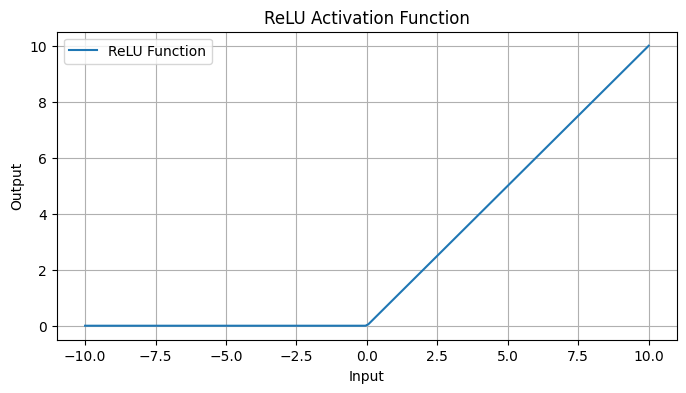
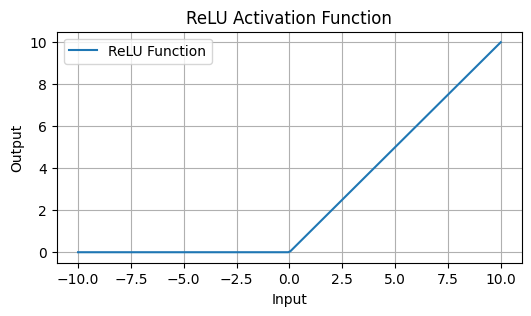
various improvements.

Changed region(s): [[0.0, 0.0285, 0.9944, 0.9968]]

diff --git a/code/relu.py b/code/relu.py
@@ -10,7 +10,7 @@ x = np.linspace(-10, 10, 200)
 y = relu(x)
 
 # Plotting
-plt.figure(figsize=(8, 4))
+plt.figure(figsize=(6, 3))
 plt.plot(x, y, label='ReLU Function')
 plt.xlabel('Input')
 plt.ylabel('Output')

diff --git a/notes/permanent/relu-activation-function.md b/notes/permanent/relu-activation-function.md
@@ -27,8 +27,8 @@ The paper [Rectified Linear Units Improve Restricted Boltzmann Machines](https:/
 
 ReLU helped to overcome the vanishing gradient problem prevalent in traditional activation functions like [Sigmoid](sigmoid-activation-function.md) or tanh. In these functions, gradients can become extremely small, stopping the network from learning further.
  
-However, since the function outputs zero for any negative input, neurons can sometimes become inactive and stop contributing to the learning process, referred to as *"dying ReLU",*, especially if the network is not properly initialized or if the learning rate is set too high.
+However, since the function outputs zero for any negative input, neurons can sometimes become inactive and stop contributing to the learning process, referred to as *"dying ReLU"*, especially if the network is not properly initialized or the learning rate is too high.
 
 Variations like [Leaky ReLU](leaky-relu.md) and Parametric ReLU mitigate this by replacing 0 with a small value when the unit is inactive, providing a way to keep the neurons alive during the training process.
 
-![ReLU](../_media/relu-activation-plot.png)
+![ReLU plot](../_media/relu-activation-plot.png)

diff --git a/notes/permanent/leaky-relu.md b/notes/permanent/leaky-relu.md
@@ -3,6 +3,8 @@ title: Leaky ReLU
 date: 2024-01-03 00:00
 modified: 2024-01-03 00:00
 summary: An activation function that outputs a small value for negative numbers
+tags:
+  - MachineLearning
 cover: /_media/leaky-relu-cover.png
 ---
 
